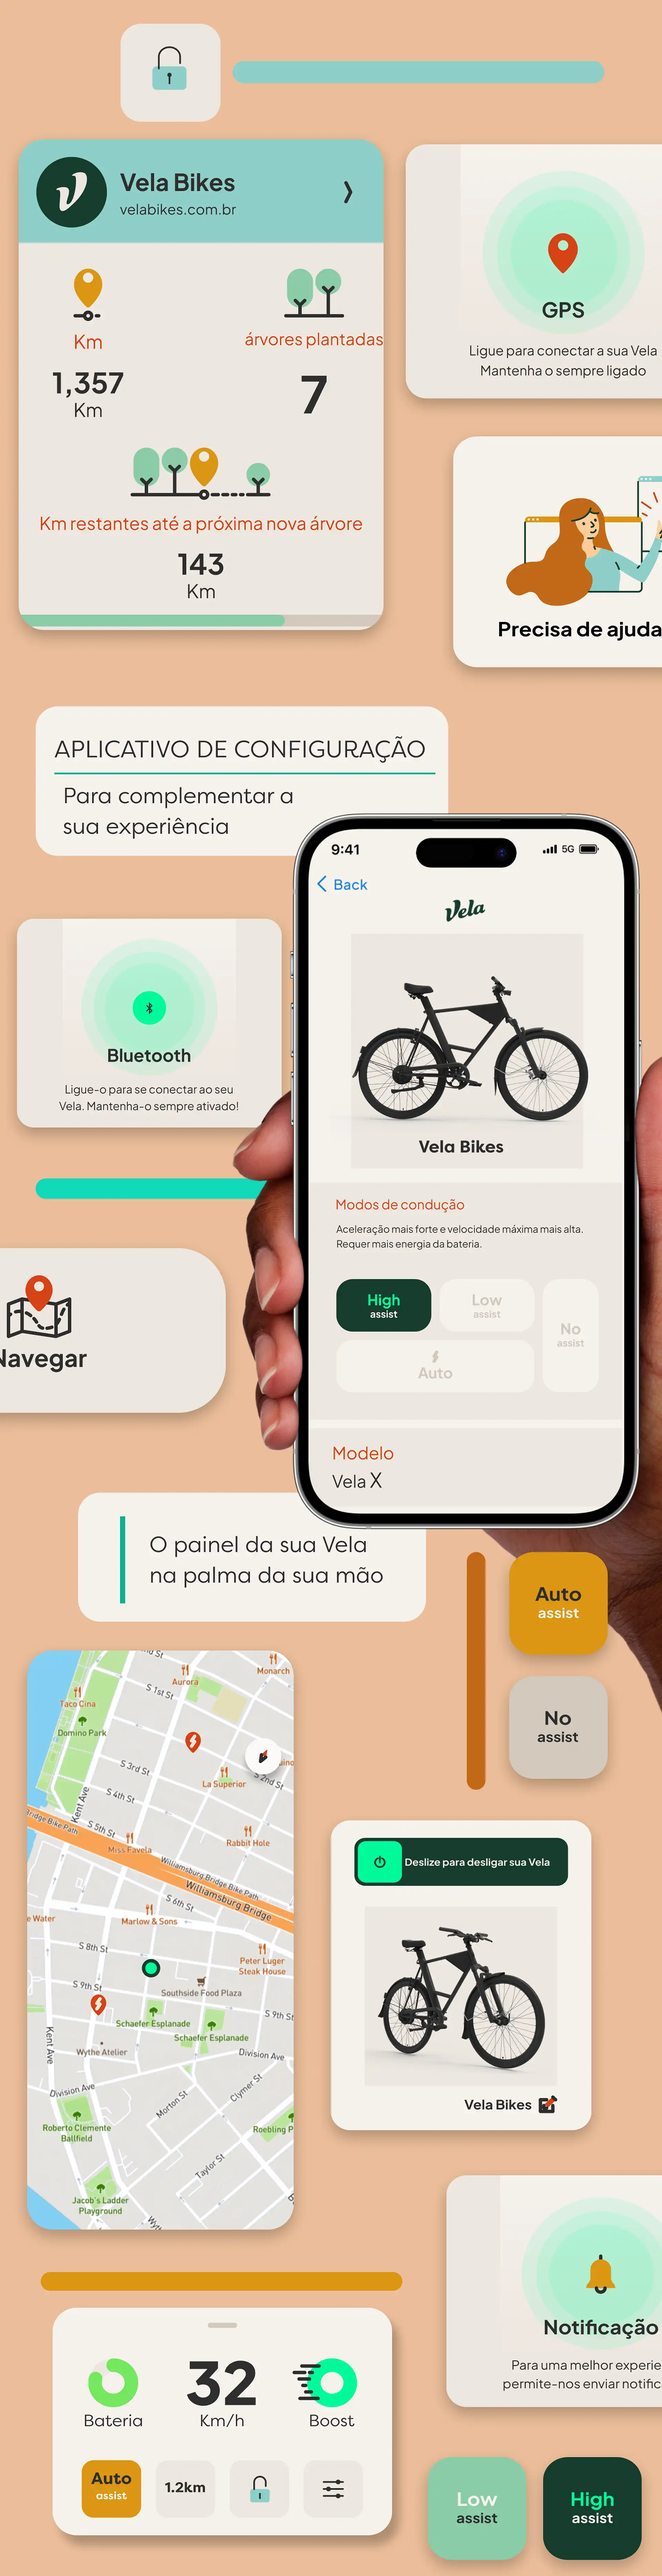
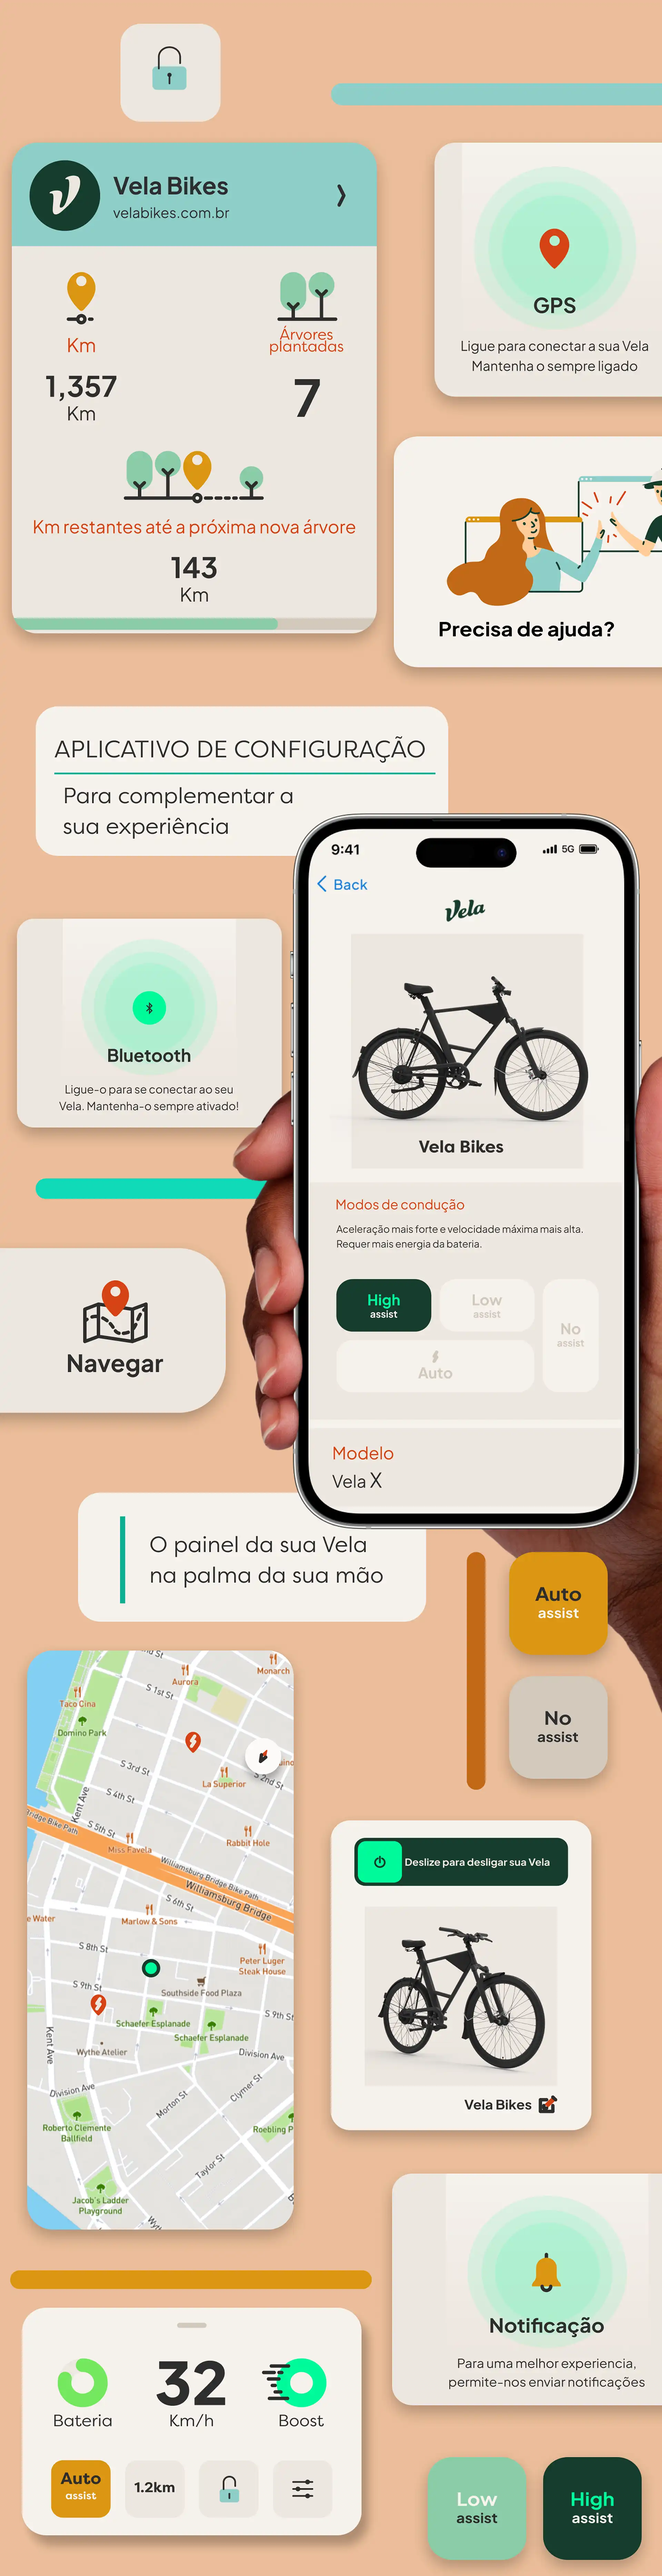
final touches

diff --git a/components/velax/Forkrender.js b/components/velax/Forkrender.js
@@ -22,16 +22,7 @@ const Forkrender = () => {
 
   return (
     <div className="Forkrender">
-      <video
-        autoPlay
-        muted
-        playsInline
-        preload="auto"
-        className="Forkrender-video"
-        poster="/velax/Forkrender-poster.webp" // Add the poster image URL here
-      >
-        {playVideo && <source src="/velax/Forkrender.mp4" type="video/mp4" />}
-      </video>
+      <img src="/velax/forkrendermob.webp"></img>
 
       <VisibilitySensor onChange={onVisibilityChange} partialVisibility>
         <div
@@ -39,8 +30,8 @@ const Forkrender = () => {
         >
           <p className="Forkrender-text-tittle">Amortecedor</p>
           <p className="Forkrender-text">
-            Hidráulico com regulagem por pressão de ar: responsiva e apenas
-            1.730g de peso.
+            Você mais seguro e confiante. Uma Vela preparada com absorsão
+            hidráulica e regulagem pneumática: leve e responsivo.
           </p>
         </div>
       </VisibilitySensor>
@@ -64,11 +55,11 @@ const Forkrender = () => {
 
         .Forkrender-text-container {
           position: absolute;
-          width: 30vw;
-          top: 13vw;
+          width: 40vw;
+          top: 0vw;
           left: 73%;
           transform: translate(-50%, -50%);
-          text-align: left;
+          text-align: right;
           z-index: 1;
           opacity: 0;
           transition: opacity 0.5s ease;
@@ -105,11 +96,11 @@ const Forkrender = () => {
 
           .Forkrender-text-container {
             position: absolute;
-            width: 40vw;
-            top: 80%;
-            left: 50%;
+            width: 35vw;
+            top: 12%;
+            left: 70%;
             transform: translate(-50%, -50%);
-            text-align: left;
+            text-align: right;
             z-index: 1;
             opacity: 0;
             transition: opacity 0.5s ease;
@@ -127,8 +118,13 @@ const Forkrender = () => {
             color: ${offBlack};
           }
 
+          .Forkrender-text {
+            font-size: 3.5vw;
+            font-weight: 300;
+          }
+
           .Forkrender-text-details {
-            font-size: 5vw;
+            font-size: 6vw;
             width: 60vw;
             font-weight: 300;
             color: ${offBlack};

diff --git a/components/velax/Boostmob.js b/components/velax/Boostmob.js
@@ -46,19 +46,18 @@ const Boostmob = () => {
       >
         {playVideo && <source src="/velax/boostmob.mp4" type="video/mp4" />}
       </video>
-
       <VisibilitySensor onChange={onVisibilityChange} partialVisibility>
         <div
           className={`Boostmob-text-container ${isVisible ? "fade-in" : ""}`}
         >
           <p className="Boostmob-text-tittle">BOOST</p>
           <p className="Boostmob-subtitle">
-            <p>
-              550W de potência <br></br>com um toque.
-            </p>{" "}
+            <p className="subtittle-lineheight">
+              Potência máxima <br />
+              com um toque.
+            </p>
           </p>
           <p className="text-details">
-            {" "}
             Além desta função, o botão também aciona o motor para partida nos
             modos conhecidos como start-assist e walk-assist.
           </p>
@@ -95,10 +94,13 @@ const Boostmob = () => {
         }
 
         .Boostmob-subtitle {
-          font-size: 5vw;
+          font-size: 8vw;
           font-weight: 700;
           color: ${offBlack};
-          margin-top: 3vh;
+          line-height: 1.2em; /* Adjust the line height value as needed */
+        }
+        
+   
         }
 
         .Boostmob-text-tittle {
@@ -111,7 +113,7 @@ const Boostmob = () => {
         }
 
         .text-details {
-          font-size: 3.5vw;
+          font-size: 3.8vw;
           font-weight: 300;
           color: ${offBlack};
         }

diff --git a/components/velax/Batterymob.js b/components/velax/Batterymob.js
@@ -44,8 +44,8 @@ const Batterymob = () => {
       </video>
 
       <div className="battery-text-container">
-        <p className="battery-text-tittle">Bateria</p>
-        <p className="battery-text">Claro, a bateria da Vela.</p>
+        <p className="battery-text-tittle">Claro.</p>
+        <p className="battery-text">A bateria da Vela.</p>
       </div>
 
       <style jsx>{`
@@ -79,8 +79,8 @@ const Batterymob = () => {
           margin: 0;
         }
         .battery-text-tittle {
-          font-size: 3.3vw;
-          font-weight: 500;
+          font-size: 6vw;
+          font-weight: 600;
           color: #ffffff;
           top: 90%;
           margin-bottom: -1vw;
@@ -112,7 +112,7 @@ const Batterymob = () => {
           }
 
           .battery-text-details {
-            font-size: 5vw;
+            font-size: 6vw;
             width: 60vw;
             font-weight: 300;
             color: ${offWhite};

diff --git a/pages/velax.js b/pages/velax.js
@@ -155,26 +155,20 @@ const VelaX = () => {
       )}
 
       {isMobile ? (
-        <Uphillmob className="uphillmob" />
-      ) : (
-        <Uphill className="uphill" />
-      )}
-
-      {isMobile ? (
         <Batterymob className="Batterymob" />
       ) : (
         <Battery className="Battery" />
-      )}
-      {isMobile ? (
-        <Rangemob className="Rangemob" />
-      ) : (
-        <Range className="Range" />
       )}
 
       {isMobile ? (
         <Batteryrendermob className="Batteryrendermob" />
       ) : (
         <Batteryrender className="Batteryrender" />
+      )}
+      {isMobile ? (
+        <Rangemob className="Rangemob" />
+      ) : (
+        <Range className="Range" />
       )}
 
       {isMobile ? (

diff --git a/components/velax/Battery.js b/components/velax/Battery.js
@@ -44,8 +44,8 @@ const Battery = () => {
       </video>
 
       <div className="battery-text-container">
-        <p className="battery-text-tittle">Bateria</p>
-        <p className="battery-text">Claro, a bateria da Vela.</p>
+        <p className="battery-text-tittle">Claro.</p>
+        <p className="battery-text">A bateria da Vela.</p>
       </div>
 
       <style jsx>{`
@@ -79,8 +79,8 @@ const Battery = () => {
           margin: 0;
         }
         .battery-text-tittle {
-          font-size: 1.6vw;
-          font-weight: 500;
+          font-size: 3.8vw;
+          font-weight: 600;
           color: #ffffff;
           top: 90%;
           margin-bottom: -1vw;

diff --git a/components/velax/Lightsmob.js b/components/velax/Lightsmob.js
@@ -37,7 +37,7 @@ const Lightsmob = () => {
       </video>
 
       <div className="lights-text-container">
-        <p className="lights-text-tittle">Muita Luz</p>
+        <p className="lights-text-tittle">Muita Luz.</p>
         <p className="lights-text">Para ver e ser visto.</p>
       </div>
 
@@ -104,8 +104,8 @@ const Lightsmob = () => {
             margin: 0;
           }
           .lights-text-tittle {
-            font-size: 3.3vw;
-            font-weight: 500;
+            font-size: 6vw;
+            font-weight: 600;
             color: #ffffff;
             top: 90%;
             margin-bottom: -1vw;

diff --git a/components/velax/Lights.js b/components/velax/Lights.js
@@ -44,7 +44,7 @@ const Lights = () => {
       </video>
 
       <div className="lights-text-container">
-        <p className="lights-text-tittle">Muita Luz</p>
+        <p className="lights-text-tittle">Muita Luz.</p>
         <p className="lights-text">Para ver e ser visto.</p>
       </div>
 
@@ -79,8 +79,8 @@ const Lights = () => {
           margin: 0;
         }
         .lights-text-tittle {
-          font-size: 1.6vw;
-          font-weight: 500;
+          font-size: 3.8vw;
+          font-weight: 600;
           color: #ffffff;
           top: 90%;
           margin-bottom: -1vw;

diff --git a/components/velax/Forkmob.js b/components/velax/Forkmob.js
@@ -44,7 +44,7 @@ const Forkmob = () => {
       </video>
 
       <div className="Forkmob-text-container">
-        <p className="Forkmob-text-tittle">Urbana</p>
+        <p className="Forkmob-text-tittle">Urbana.</p>
         <p className="Forkmob-text">Para qualquer rota.</p>
       </div>
 
@@ -79,8 +79,8 @@ const Forkmob = () => {
           margin: 0;
         }
         .Forkmob-text-tittle {
-          font-size: 3.3vw;
-          font-weight: 500;
+          font-size: 6vw;
+          font-weight: 600;
           color: #ffffff;
           top: 90%;
           margin-bottom: -1vw;

diff --git a/components/velax/Range.js b/components/velax/Range.js
@@ -76,7 +76,7 @@ const Range = () => {
           <p className="title">Vai longe.</p>
           <p className="details">
             A bateria da Vela pesa apenas 2kg e tem autonomia de até 40km. Com
-            apenas uma recarga você pedala de ponta a ponta da cidade.
+            apenas uma recarga você pedala a cidade de ponta a ponta.
           </p>
         </div>
       </div>

diff --git a/components/velax/Rangemob.js b/components/velax/Rangemob.js
@@ -82,7 +82,7 @@ const Rangemob = () => {
         <h2>Vai longe.</h2>
         <p>
           A bateria da Vela pesa apenas 2kg e tem autonomia de até 40km. Com
-          apenas uma recarga você pedala de ponta a ponta da cidade.
+          apenas uma recarga você pedala a cidade de ponta a ponta.
         </p>
       </div>
 

diff --git a/components/velax/Speed.js b/components/velax/Speed.js
@@ -53,9 +53,6 @@ const Speed = () => {
             </VisibilitySensor>
             <span className="speed-text-medium">km/h</span>
           </p>
-          <p className="speed-text-details">
-            <br></br>Velocidade máxima de assistência do motor.
-          </p>
         </div>
       </Parallax>
 

diff --git a/components/velax/AppTitle.js b/components/velax/AppTitle.js
@@ -25,7 +25,7 @@ const AppTitle = () => {
           padding-left: 0vw;
           text-align: center;
 
-          color: white;
+          color: #2f2f2f;
           width: 100vw;
           height: 80vh;
           z-index: 1;
